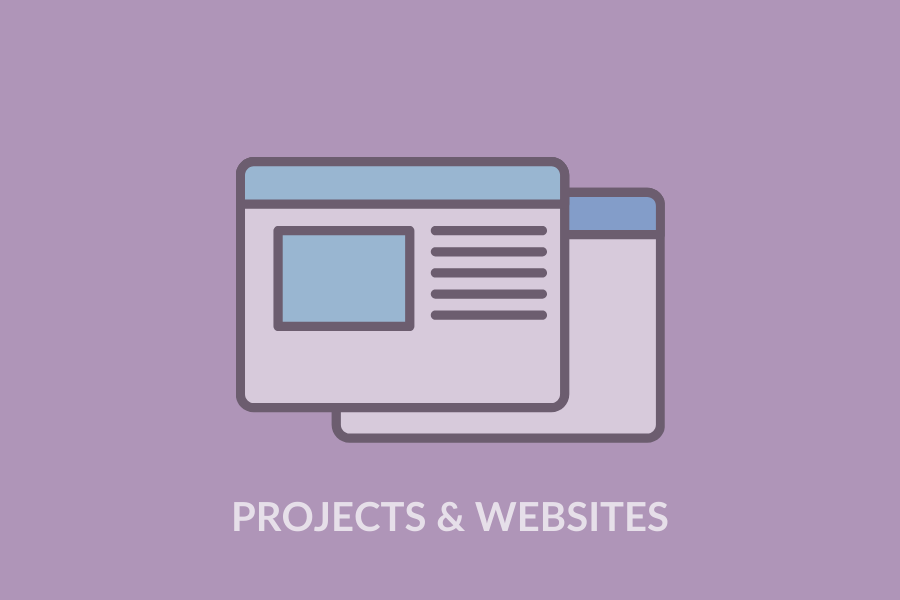
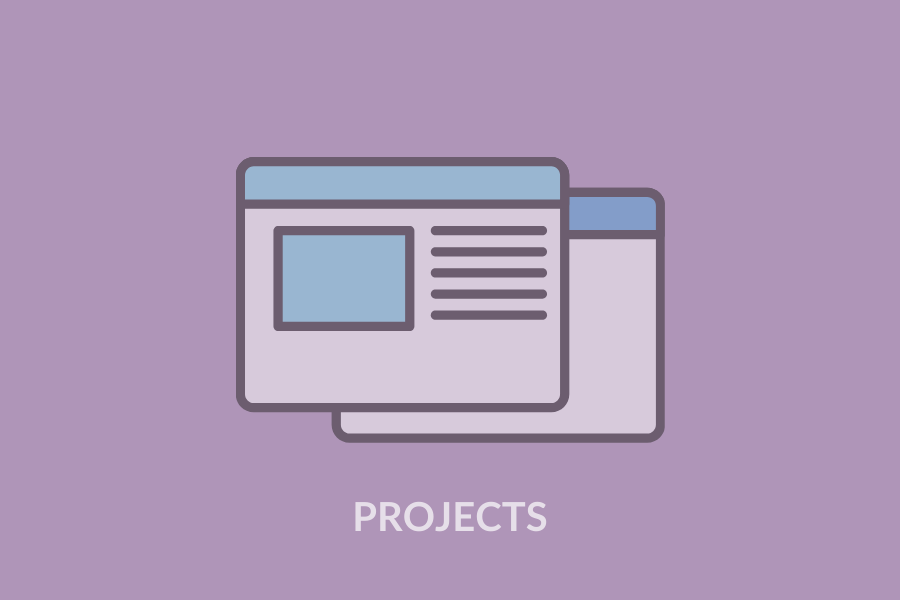
Add files via upload

Changed region(s): [[0.2489, 0.81, 0.7467, 0.9]]

diff --git a/index.html b/index.html
@@ -48,7 +48,7 @@
                     <div class="divider-custom-line"></div>
                 </div>
                 <!-- Masthead Subheading-->
-                <p class="masthead-subheading font-weight-light mb-0">BMATH/BBA Double Degree - 1B</p>
+                <p class="masthead-subheading font-weight-light mb-0">Honours Math (Co-op) - 2A</p>
             </div>
         </header>
         <!-- Portfolio Section-->
@@ -134,8 +134,8 @@
                 </div>
                 <!-- About Section Content-->
                 <div class="row">
-                    <div class="col-lg-4 ml-auto"><p class="lead">Hi! I'm Elysia, a Math and Business Double Degree student at the University of Waterloo.</p></div>
-                    <div class="col-lg-4 mr-auto"><p class="lead">When I'm not studying, you can find me working on music projects, reading, or playing sports.<br>
+                    <div class="col-lg-4 ml-auto"><p class="lead">Hi! I'm Elysia, an Honours Math student minoring in Biophysics at the University of Waterloo. I'm passionate about problem-solving, challenging myself, and learning new things!</p></div>
+                    <div class="col-lg-4 mr-auto"><p class="lead">When I'm not studying, you can find me working on music projects, reading, or playing sports.
                     To get to know me better, look through the modules in the <a href="#experiences" class="js-scroll-trigger">Experiences</a> section!
                     </p></div>
                 </div>
@@ -213,7 +213,7 @@
             <a class="js-scroll-trigger d-block text-center text-white rounded" href="#page-top"><i class="fa fa-chevron-up"></i></a>
         </div>
         <!-- Portfolio Modals-->
-        <!-- Portfolio Modal 1-->
+        <!-- SKILLS -->
         <div class="portfolio-modal modal fade" id="portfolioModal1" tabindex="-1" role="dialog" aria-labelledby="portfolioModal1Label" aria-hidden="true">
             <div class="modal-dialog modal-xl" role="document">
                 <div class="modal-content">
@@ -236,8 +236,21 @@
                                     <img class="img-fluid rounded mb-5" src="assets/img/experiences/skills.png" alt="" />
                                     -->
                                     <!-- Portfolio Modal - Text-->
-                                    <p class="mb-5"><i><b>Technical Skills</b></i><br>Java<br>C<br>Figma<br>Premiere Pro<br>Photoshop<br><br>
-                                    <b><i>Soft Skills</i></b><br>Communication<br>Collaboration<br>Organization<br>Problem Solving<br>
+                                    <p class="mb-5"><i><b>Technical Skills</b></i><br>
+                                        Python<br>
+                                        C<br>
+                                        Java<br>
+                                        Figma<br>
+                                        Premiere Pro<br>
+                                        Photoshop<br><br>
+                                    <b><i>Certifications</i></b><br>
+                                        AZ-900: Microsoft Azure Fundamentals<br>
+                                        AI-900: Microsoft Azure AI Fundamentals<br><br>
+                                    <b><i>Soft Skills</i></b><br>
+                                        Communication<br>
+                                        Collaboration<br>
+                                        Organization<br>
+                                        Problem Solving<br>
                                         </p>
                                     <button class="btn btn-primary" data-dismiss="modal">
                                         <i class="fas fa-times fa-fw"></i>
@@ -250,7 +263,7 @@
                 </div>
             </div>
         </div>
-        <!-- Portfolio Modal 2-->
+        <!-- LEADERSHIP -->
         <div class="portfolio-modal modal fade" id="portfolioModal2" tabindex="-1" role="dialog" aria-labelledby="portfolioModal2Label" aria-hidden="true">
             <div class="modal-dialog modal-xl" role="document">
                 <div class="modal-content">
@@ -276,12 +289,14 @@
                                     <p class="mb-5"> </p>
                                     <p>
                                         <i><b>University of Waterloo A Cappella Club Executive</b></i> (2021)
-                                        <li> Elected as the club's Social Convenor (Winter 2021)</li>
-                                        <li> Elected as a music-stream executive of The Unaccompanied Minors (Spring 2021)</li>
+                                        <li> Elected as the club's Social Convenor (Winter 2021) and Treasurer (Spring 2021, Fall 2021)</li>
+                                        <li> Elected as a music-stream executive of The Unaccompanied Minors (Spring 2021, Fall 2021)</li>
                                         <li> <b>Canada's largest university a cappella organization</b></li>
-                                        <li> Organize and host a variety of socials for the online term, including a watch party for the ICCA (<b>over 50 attendants</b>) 
+                                        <li> Organized and hosted a variety of socials for the online term, including a watch party for the ICCA (<b>over 50 attendees</b>) 
                                         and a March Madness event that <b>increased Instagram impressions by over 500%</b></li>
-                                        <li> Write weekly newsletters for <b>over 100 recipients</b> and weekly announcements over Discord for <b>over 250 recipients</b></li><br>
+                                        <li> Wrote weekly newsletters for <b>over 100 recipients</b> and weekly announcements over Discord for <b>over 250 recipients</b></li>
+                                        <li> Successfully applied for and received a grant of <b>over $1700</b> to fund the club and currently manages these funds</li>
+                                        <li> Co-musical director of The Unaccompanied Minors (Spring 2021, Fall 2021)</li><br>
                                         </p>
 
                                         <div class="my-divider">
@@ -319,7 +334,7 @@
                 </div>
             </div>
         </div>
-        <!-- Portfolio Modal 3-->
+        <!-- AWARDS -->
         <div class="portfolio-modal modal fade" id="portfolioModal3" tabindex="-1" role="dialog" aria-labelledby="portfolioModal3Label" aria-hidden="true">
             <div class="modal-dialog modal-xl" role="document">
                 <div class="modal-content">
@@ -343,10 +358,23 @@
                                     -->
                                     <!-- Portfolio Modal - Text-->
                                     <p class="mb-5">
-                                    <p><i><b>ICCA Central Quarterfinals 2nd Place</b></i> (2021)
-                                        <li>Placed 2nd with The Unaccompanied Minors, a UW a cappella group, in the International Competition of Collegiate A Cappella </li>
-                                        <li>Advancing to Semi-Finals</li>
-                                        <li>See our submission <a href="https://youtu.be/sZdqhRCrK4M" target="_blank">here</a></li>
+                                    <p><i><b>BOSS (Boston Sings) 2021 Champion</b></i> (2021)
+                                        <li>Placed 1st with In Full Colour, a UW a cappella group, in the BOSS Scholastic Competition</li>
+                                        <li><b>Wrote, co-arranged, and soloed half of our original winning set</b></li>
+                                        <li>First non-American group to win</li>
+                                        <li>See our submission video <a href="https://www.youtube.com/watch?v=jvSg1an7QHE" target="_blank">here!</a></li>
+                                        <li>Also on Spotify and other major streaming services:</li>
+                                        <iframe src="https://open.spotify.com/embed/album/5hnsXdM6cIrXALMwJ0EbJs" width="100%" height="80" frameBorder="0" allowtransparency="true" allow="encrypted-media"></iframe>                                    
+                                    </p>
+
+                                        <div class="my-divider">
+                                        <div class="my-divider-line"></div>
+                                        </div>
+
+                                    <p><i><b>ICCA Central Semifinals 3rd Place</b></i> (2021)
+                                        <li>Placed 3rd with The Unaccompanied Minors, a UW a cappella group, in the International Competition of Collegiate A Cappella Central Semifinals</li>
+                                        <li>Only Canadian group to place in the Semifinals</li>
+                                        <li>See our submission <a href="https://www.youtube.com/watch?v=y5FPZc-Ew0M" target="_blank">here!</a></li>
                                         </p>
 
                                         <div class="my-divider">
@@ -413,7 +441,7 @@
                 </div>
             </div>
         </div>
-        <!-- Portfolio Modal 4-->
+        <!-- PROJECTS -->
         <div class="portfolio-modal modal fade" id="portfolioModal4" tabindex="-1" role="dialog" aria-labelledby="portfolioModal4Label" aria-hidden="true">
             <div class="modal-dialog modal-xl" role="document">
                 <div class="modal-content">
@@ -425,7 +453,7 @@
                             <div class="row justify-content-center">
                                 <div class="col-lg-8">
                                     <!-- Portfolio Modal - Title-->
-                                    <h2 class="portfolio-modal-title text-secondary text-uppercase mb-0" id="portfolioModal4Label">Projects & Websites</h2>
+                                    <h2 class="portfolio-modal-title text-secondary text-uppercase mb-0" id="portfolioModal4Label">Projects</h2>
                                     <!-- Icon Divider-->
                                     <div class="divider-custom">
                                         <div class="divider-custom-line"></div>
@@ -438,7 +466,7 @@
                                     <!-- Portfolio Modal - Text-->
                                     <p class="mb-5"></p>
                                     <p>
-                                        <i><b><a href="https://www.youthartonline.com" target ="_blank">Youth Art Online</a></b>, Website</i> (2019)
+                                    <!--    <i><b><a href="https://www.youthartonline.com" target ="_blank">Youth Art Online</a></b>, Website</i> (2019)
                                          <li> Independently created, managed, and advertised a website that allowed
                                             young artists to showcase their work</li>
                                          <li> Over <b>30 users</b>, about <b>50 posts</b></li><br>
@@ -457,17 +485,31 @@
                                          <div class="my-divider">
                                          <div class="my-divider-line"></div>
                                         </div>
+                                    
  
                                         <p>Over quarantine, I helped my little brother develop an interest in puzzle games (namely Minesweeper and Reve's Puzzle). 
                                             I wanted to create a few programs to encourage him and explore his interest with him.</p>
+                                        -->
 
                                         <p>
-                                            <i><b><a href="https://github.com/elysia-wang/revespuzzle" target="_blank">Reve's Puzzle Solver</a></b>, Project</i> (2020)
+                                            <i><b><a href="https://devpost.com/software/receive-receipt" target="_blank">Receive Receipt</a></b> - SQL, Python, & CockroachDB</i> (2021)
+                                            <li>Created a backend system to manage receipts by emailing them to customers to save paper and reduce contact during the COVID-19 pandemic </li>
+                                            <li>Wrote a Python script that creates a digital receipt and emails it to the customer</li>
+                                            <li>Created a database for the receipts using SQL and CockroachDB </li>
+                                            </p>
+
+                                        <p>
+                                            <i><b>Sudoku Puzzle Solver</b> - Python</i> (2021)
+                                            <li> Wrote a program that takes a sudoku board and prints the solution using a backtracking algorithm </li>
+                                            </p>
+
+                                        <p>
+                                            <i><b><a href="https://github.com/elysia-wang/revespuzzle" target="_blank">Reve's Puzzle Solver</a></b> - Java</i> (2020)
                                             <li> Wrote a program that prints the solution to a Reve's puzzle with n disks in the fewest steps possible</li>
                                             </p>
                                         
                                         <p>
-                                        <i><b><a href="https://github.com/elysia-wang/minesweeper" target="_blank">Minesweeper Board Generator</a></b>, Project</i> (2020)
+                                        <i><b><a href="https://github.com/elysia-wang/minesweeper" target="_blank">Minesweeper Board Generator</a></b> - Java</i> (2020)
                                         <li> Wrote a program that generates an n by m Minesweeper board with x mines</li><br>
                                         </p>
                                     <button class="btn btn-primary" data-dismiss="modal">
@@ -481,7 +523,7 @@
                 </div>
             </div>
         </div>
-        <!-- Portfolio Modal 5-->
+        <!-- VISUALS -->
         <div class="portfolio-modal modal fade" id="portfolioModal5" tabindex="-1" role="dialog" aria-labelledby="portfolioModal5Label" aria-hidden="true">
             <div class="modal-dialog modal-xl" role="document">
                 <div class="modal-content">
@@ -552,7 +594,7 @@
                 </div>
             </div>
         </div>
-        <!-- Portfolio Modal 6-->
+        <!-- MUSIC -->
         <div class="portfolio-modal modal fade" id="portfolioModal6" tabindex="-1" role="dialog" aria-labelledby="portfolioModal6Label" aria-hidden="true">
             <div class="modal-dialog modal-xl" role="document">
                 <div class="modal-content">
@@ -578,13 +620,17 @@
                                     <p class="mb-5"></p>
                                     <p>
                                         <b><i>Editing, Mixing, & Producing A Cappella Music</i></b><br>
-                                        <li>I've recently developed an interest in mixing a cappella music</li>
-                                        Here's my first project!: </p>
-                                        <iframe width="auto" height="auto" src="https://www.youtube.com/embed/Vd-IKxtnLE8" frameborder="0" allow="accelerometer; clipboard-write; encrypted-media; gyroscope; picture-in-picture" allowfullscreen></iframe>
-
+                                        <li>I've recently developed an interest in mixing a cappella music and music production in general</li>
+                                        Here's my most recent mix!: </p>
+                                        <iframe src="https://www.youtube.com/embed/-uvjCU8-Pl8" title="YouTube video player" frameborder="0" allow="accelerometer; autoplay; clipboard-write; encrypted-media; gyroscope; picture-in-picture" allowfullscreen></iframe>
                                         <p><br>
                                         
-                                        <b><i>Playing Instruments & Singing</i></b><br>
+                                        <b><i>Songwriting</i></b><br>
+                                        <li>Here's the song I wrote and sang the solo on for In Full Colour, an a cappella group I'm a part of!: </li>
+                                        <iframe src="https://open.spotify.com/embed/track/4W0ahzKKNEuGOs2cnlMfsE" width="100%" height="80" frameBorder="0" allowtransparency="true" allow="encrypted-media"></iframe>
+                                        <br><br>
+
+                                        <b><i>Playing Instruments & Singing</i></b><br><br>
                                         <li>I play flute, piano, and guitar (and I played the saxophone in high school)</li>
                                         <li>I enjoy arranging and recording songs I like—I post my personal music projects on <a href="instagram.com/elysia.mp4" target="_blank">Instagram</a></li>
                                         </p>
